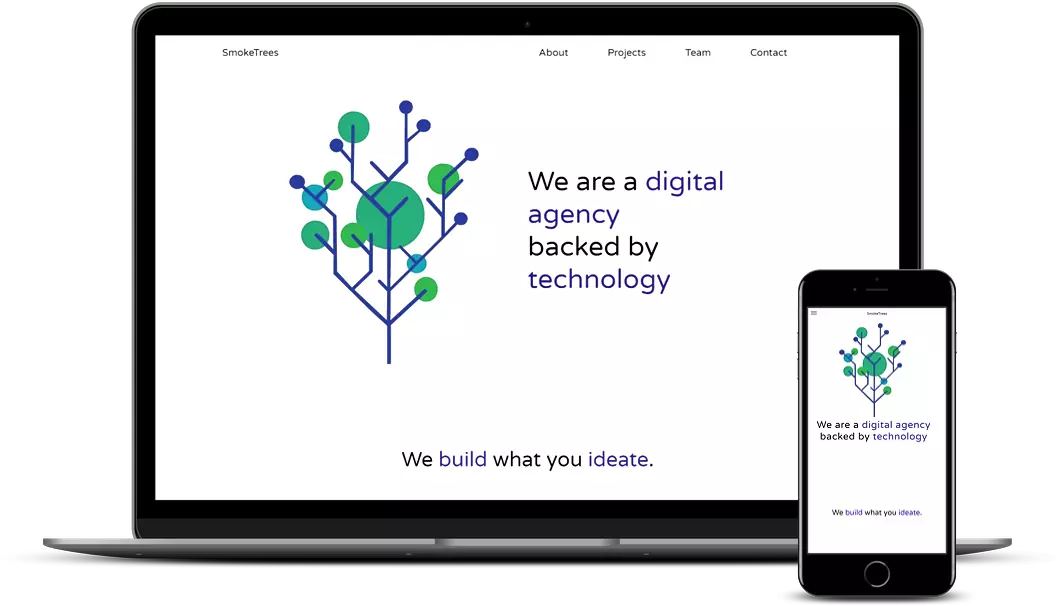
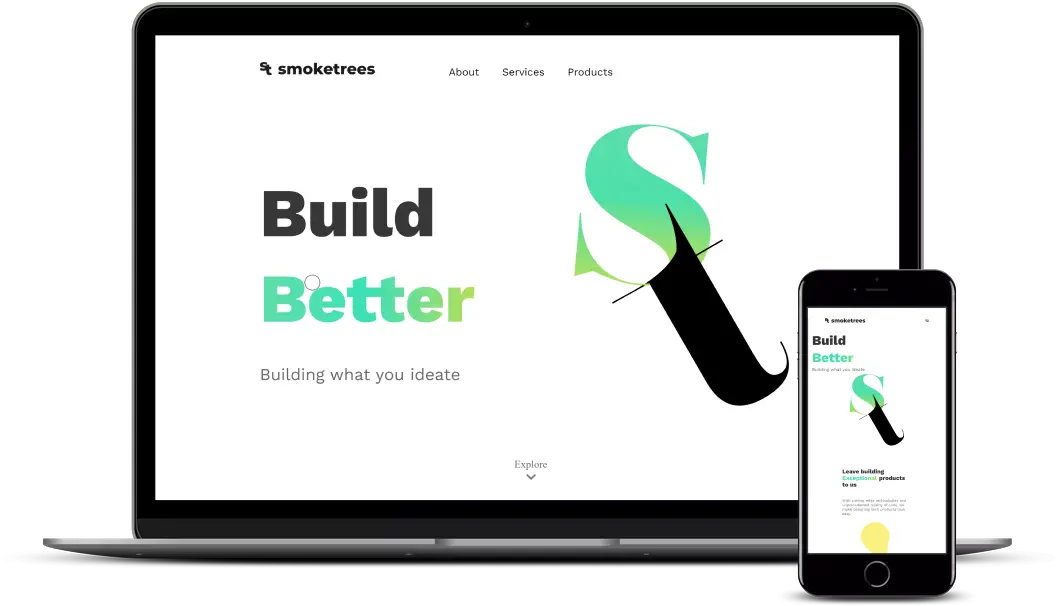
feat: added new featured proj

diff --git a/_includes/featured-projects.html b/_includes/featured-projects.html
@@ -54,20 +54,20 @@
       </figcaption>
     </div>
 
-    <!-- <div class="project blistabloc">
+    <div class="project blistabloc">
       <figure class="project__pic">
-        <a rel="noreferrer" href="https://smoketrees.dev/" target="_blank">
+        <a rel="noreferrer" href="https://smoketrees.in/" target="_blank">
           <img src="{{site.baseurl}}/img/featured/smoketrees/smoketrees.webp" alt="">
         </a>
       </figure>
       <figcaption class="project__caption">
         <div class="project__name">
-          <a rel="noreferrer" href="https://smoketrees.dev/" target="_blank">SmokeTrees</a>
+          <a rel="noreferrer" href="https://smoketrees.in/" target="_blank">SmokeTrees</a>
         </div>
         <p>SmokeTrees was born from an idea to bring the best developers out there onto a single platform to create the ultimate
         community of coders, who are dedicated to serving the world.</p>
       </figcaption>
-    </div> -->
+    </div>
 
     <div class="project interventions">
       <figure class="project__pic">
